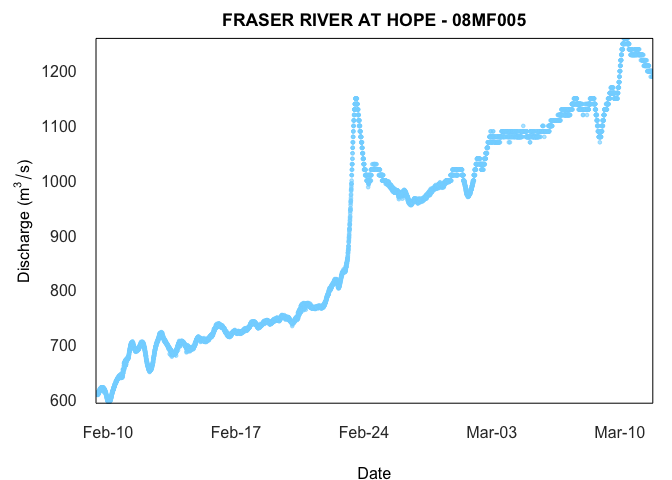
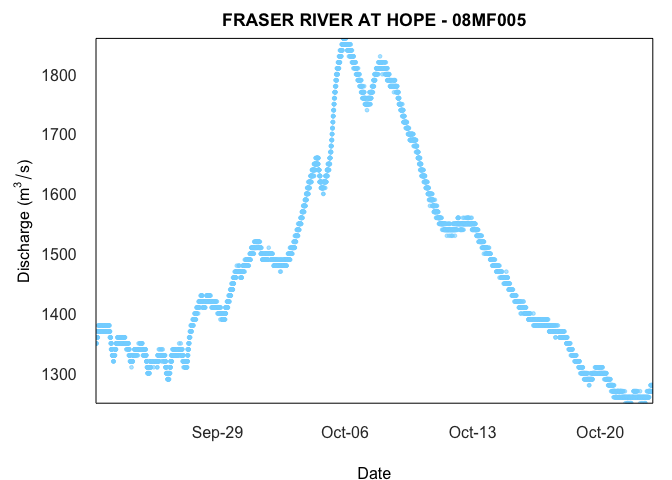
more release tasks

diff --git a/README.md b/README.md
@@ -21,18 +21,18 @@ checks](https://badges.cranchecks.info/worst/tidyhydat.svg)](https://cran.r-proj
 
 ## What does `tidyhydat` do?
 
--   Provides functions (`hy_*`) that access hydrometric data from the
-    HYDAT database, a national archive of Canadian hydrometric data and
-    return tidy data.
--   Provides functions (`realtime_*`) that access Environment and
-    Climate Change Canada’s real-time hydrometric data source.
--   Provides functions (`search_*`) that can search through the
-    approximately 7000 stations in the database and aid in generating
-    station vectors
--   Keep functions as simple as possible. For example, for daily flows,
-    the `hy_daily_flows()` function queries the database, *tidies* the
-    data and returns a [tibble](https://tibble.tidyverse.org/) of daily
-    flows.
+- Provides functions (`hy_*`) that access hydrometric data from the
+  HYDAT database, a national archive of Canadian hydrometric data and
+  return tidy data.
+- Provides functions (`realtime_*`) that access Environment and Climate
+  Change Canada’s real-time hydrometric data source.
+- Provides functions (`search_*`) that can search through the
+  approximately 7000 stations in the database and aid in generating
+  station vectors
+- Keep functions as simple as possible. For example, for daily flows,
+  the `hy_daily_flows()` function queries the database, *tidies* the
+  data and returns a [tibble](https://tibble.tidyverse.org/) of daily
+  flows.
 
 ## Installation
 
@@ -83,22 +83,22 @@ the same conventions discussed above. Using `realtime_dd()` we can
 easily select specific stations by supplying a station of interest:
 
     realtime_dd(station_number = "08MF005")
-    #>   Queried on: 2025-03-11 19:53:39.321743 (UTC)
-    #>   Date range: 2025-02-09 to 2025-03-11 
-    #> # A tibble: 17,520 × 8
+    #>   Queried on: 2025-10-22 22:31:11.167549 (UTC)
+    #>   Date range: 2025-09-22 to 2025-10-22 
+    #> # A tibble: 17,598 × 8
     #>    STATION_NUMBER PROV_TERR_STATE_LOC Date                Parameter Value Grade
     #>    <chr>          <chr>               <dttm>              <chr>     <dbl> <chr>
-    #>  1 08MF005        BC                  2025-02-09 08:00:00 Flow        612 <NA> 
-    #>  2 08MF005        BC                  2025-02-09 08:05:00 Flow        612 <NA> 
-    #>  3 08MF005        BC                  2025-02-09 08:10:00 Flow        613 <NA> 
-    #>  4 08MF005        BC                  2025-02-09 08:15:00 Flow        611 <NA> 
-    #>  5 08MF005        BC                  2025-02-09 08:20:00 Flow        611 <NA> 
-    #>  6 08MF005        BC                  2025-02-09 08:25:00 Flow        611 <NA> 
-    #>  7 08MF005        BC                  2025-02-09 08:30:00 Flow        610 <NA> 
-    #>  8 08MF005        BC                  2025-02-09 08:35:00 Flow        611 <NA> 
-    #>  9 08MF005        BC                  2025-02-09 08:40:00 Flow        611 <NA> 
-    #> 10 08MF005        BC                  2025-02-09 08:45:00 Flow        611 <NA> 
-    #> # ℹ 17,510 more rows
+    #>  1 08MF005        BC                  2025-09-22 08:00:00 Flow       1350 <NA> 
+    #>  2 08MF005        BC                  2025-09-22 08:05:00 Flow       1360 <NA> 
+    #>  3 08MF005        BC                  2025-09-22 08:10:00 Flow       1350 <NA> 
+    #>  4 08MF005        BC                  2025-09-22 08:15:00 Flow       1350 <NA> 
+    #>  5 08MF005        BC                  2025-09-22 08:20:00 Flow       1350 <NA> 
+    #>  6 08MF005        BC                  2025-09-22 08:25:00 Flow       1360 <NA> 
+    #>  7 08MF005        BC                  2025-09-22 08:30:00 Flow       1350 <NA> 
+    #>  8 08MF005        BC                  2025-09-22 08:35:00 Flow       1360 <NA> 
+    #>  9 08MF005        BC                  2025-09-22 08:40:00 Flow       1360 <NA> 
+    #> 10 08MF005        BC                  2025-09-22 08:45:00 Flow       1350 <NA> 
+    #> # ℹ 17,588 more rows
     #> # ℹ 2 more variables: Symbol <chr>, Code <chr>
 
 Or we can use `realtime_ws`:
@@ -111,20 +111,20 @@ Or we can use `realtime_ws`:
     )
     #> All station successfully retrieved
     #> All parameters successfully retrieved
-    #> # A tibble: 4,602 × 12
+    #> # A tibble: 4,658 × 12
     #>    STATION_NUMBER Date                Name_En  Value Unit  Grade Symbol Approval
     #>    <chr>          <dttm>              <chr>    <dbl> <chr> <lgl> <chr>  <chr>   
-    #>  1 08MF005        2025-02-25 00:00:00 Water t…  4.46 °C    NA    <NA>   Provisi…
-    #>  2 08MF005        2025-02-25 01:00:00 Water t…  4.48 °C    NA    <NA>   Provisi…
-    #>  3 08MF005        2025-02-25 02:00:00 Water t…  4.49 °C    NA    <NA>   Provisi…
-    #>  4 08MF005        2025-02-25 03:00:00 Water t…  4.48 °C    NA    <NA>   Provisi…
-    #>  5 08MF005        2025-02-25 04:00:00 Water t…  4.5  °C    NA    <NA>   Provisi…
-    #>  6 08MF005        2025-02-25 05:00:00 Water t…  4.51 °C    NA    <NA>   Provisi…
-    #>  7 08MF005        2025-02-25 06:00:00 Water t…  4.52 °C    NA    <NA>   Provisi…
-    #>  8 08MF005        2025-02-25 07:00:00 Water t…  4.52 °C    NA    <NA>   Provisi…
-    #>  9 08MF005        2025-02-25 08:00:00 Water t…  4.55 °C    NA    <NA>   Provisi…
-    #> 10 08MF005        2025-02-25 09:00:00 Water t…  4.54 °C    NA    <NA>   Provisi…
-    #> # ℹ 4,592 more rows
+    #>  1 08MF005        2025-10-08 00:00:00 Water t…  13.8 °C    NA    <NA>   Provisi…
+    #>  2 08MF005        2025-10-08 01:00:00 Water t…  13.8 °C    NA    <NA>   Provisi…
+    #>  3 08MF005        2025-10-08 02:00:00 Water t…  13.8 °C    NA    <NA>   Provisi…
+    #>  4 08MF005        2025-10-08 03:00:00 Water t…  13.8 °C    NA    <NA>   Provisi…
+    #>  5 08MF005        2025-10-08 04:00:00 Water t…  13.8 °C    NA    <NA>   Provisi…
+    #>  6 08MF005        2025-10-08 05:00:00 Water t…  13.8 °C    NA    <NA>   Provisi…
+    #>  7 08MF005        2025-10-08 06:00:00 Water t…  13.8 °C    NA    <NA>   Provisi…
+    #>  8 08MF005        2025-10-08 07:00:00 Water t…  13.8 °C    NA    <NA>   Provisi…
+    #>  9 08MF005        2025-10-08 08:00:00 Water t…  13.8 °C    NA    <NA>   Provisi…
+    #> 10 08MF005        2025-10-08 09:00:00 Water t…  13.8 °C    NA    <NA>   Provisi…
+    #> # ℹ 4,648 more rows
     #> # ℹ 4 more variables: Parameter <dbl>, Code <chr>, Qualifier <chr>,
     #> #   Qualifiers <lgl>
 
@@ -132,23 +132,22 @@ Or we can use `realtime_ws`:
 
 `tidyhydat` provides two methods to download realtime data.
 `realtime_dd()` provides a function to import .csv files from
-[here](https://dd.weather.gc.ca/hydrometric/csv/). `realtime_ws()` is an
-client for a web service hosted by ECCC. `realtime_ws()` has several
+[here](https://dd.weather.gc.ca/today/hydrometric/). `realtime_ws()` is
+an client for a web service hosted by ECCC. `realtime_ws()` has several
 difference to `realtime_dd()`. These include:
 
--   *Speed*: The `realtime_ws()` is much faster for larger queries
-    (i.e. many stations). For single station queries to `realtime_dd()`
-    is more appropriate.
--   *Length of record*: `realtime_ws()` records goes back further in
-    time.
--   *Type of parameters*: `realtime_dd()` are restricted to river flow
-    (either flow and level) data. In contrast `realtime_ws()` can
-    download several different parameters depending on what is available
-    for that station. See `data("param_id")` for a list and explanation
-    of the parameters.
--   *Date/Time filtering*: `realtime_ws()` provides argument to select a
-    date range. Selecting a data range with `realtime_dd()` is not
-    possible until after all files have been downloaded.
+- *Speed*: The `realtime_ws()` is much faster for larger queries
+  (i.e. many stations). For single station queries to `realtime_dd()` is
+  more appropriate.
+- *Length of record*: `realtime_ws()` records goes back further in time.
+- *Type of parameters*: `realtime_dd()` are restricted to river flow
+  (either flow and level) data. In contrast `realtime_ws()` can download
+  several different parameters depending on what is available for that
+  station. See `data("param_id")` for a list and explanation of the
+  parameters.
+- *Date/Time filtering*: `realtime_ws()` provides argument to select a
+  date range. Selecting a data range with `realtime_dd()` is not
+  possible until after all files have been downloaded.
 
 ### Plotting
 

diff --git a/cran-comments.md b/cran-comments.md
@@ -1,3 +1,13 @@
+tidyhydat 0.7.2
+=========================
+
+There were zero WARNINGS and zero ERRORS.
+
+
+- fixed a bug where `param_id` internal data wasnt' being accessed correctly (#224)
+- changed based datamart url (#228)
+- fail more gracefully and informatively when urls behind `realtime_*` functions are down or changed. (#229)
+
 tidyhydat 0.7.1
 =========================
 
